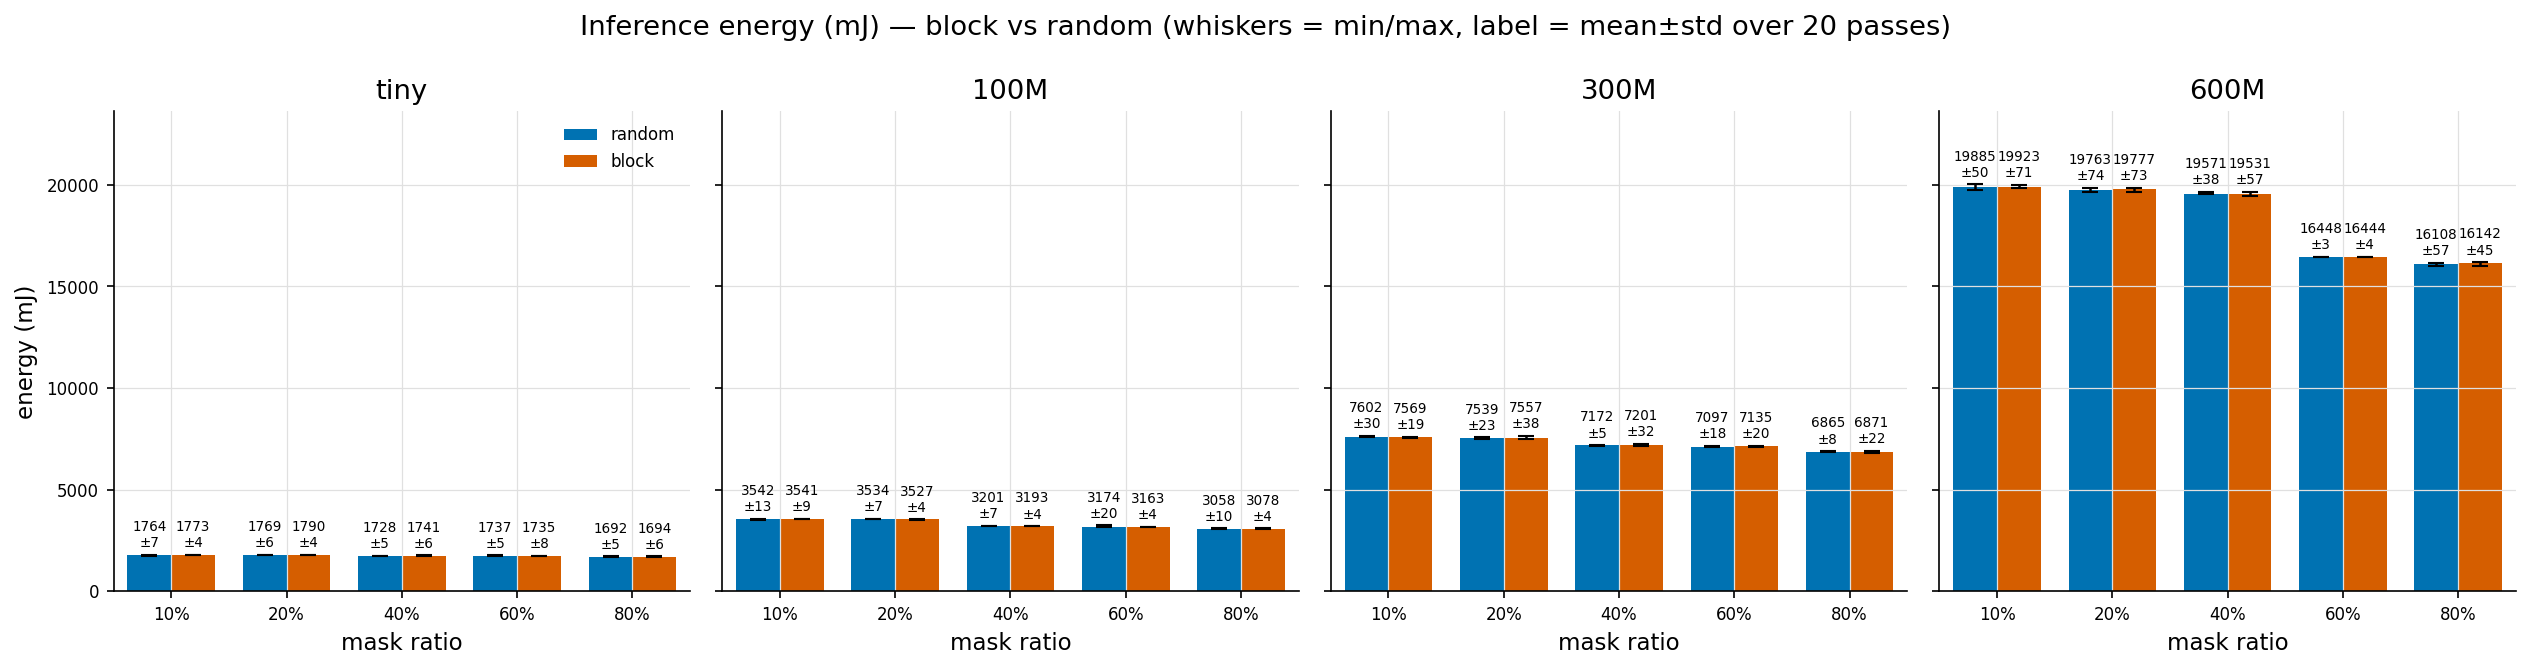
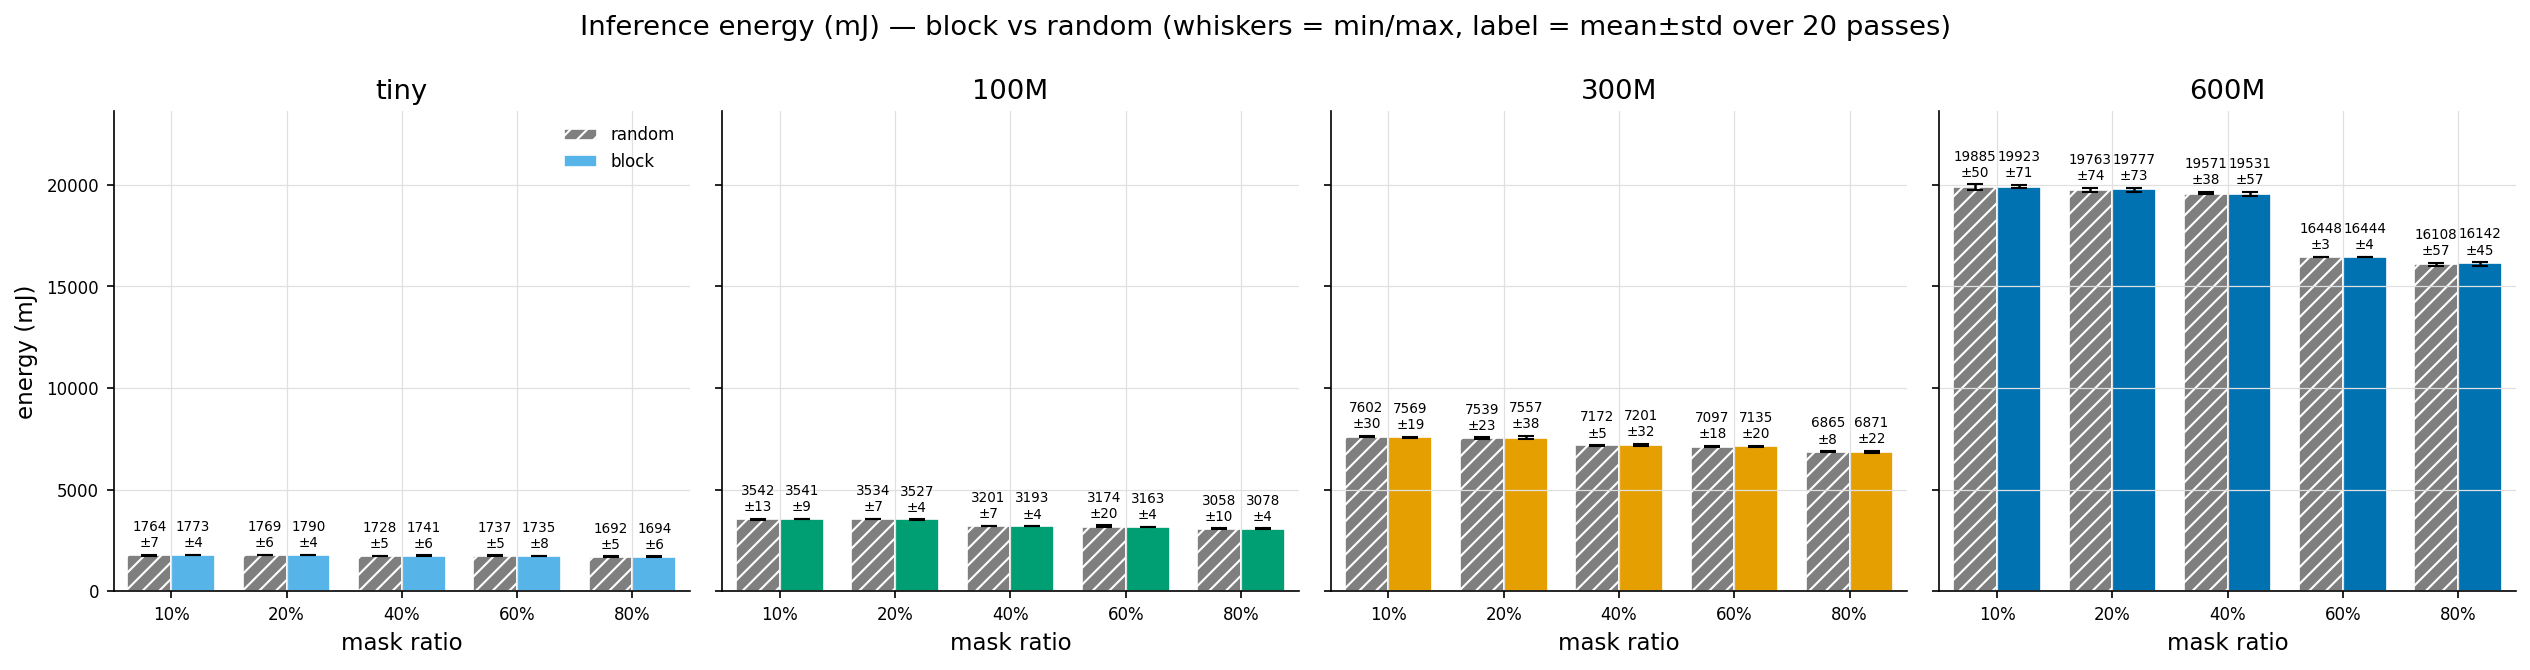
Use backbone accent color + neutral gray/hatch instead of blue/vermillion
Replaces the bright complementary color pairing with each backbone's own
accent color for block, neutral gray + hatch pattern for random.

Changed region(s): [[0.0312, 0.2687, 0.9992, 0.8955], [0.2186, 0.1791, 0.2498, 0.2687]]

diff --git a/multi_tile_generalization/block_masking_study/scripts/plot_inference_energy.py b/multi_tile_generalization/block_masking_study/scripts/plot_inference_energy.py
@@ -1,18 +1,30 @@
-"""One clean figure per metric: block vs random, min/max whiskers, mean±std labels."""
+"""
+plot_inference_energy.py
+-------------------------
+One clean figure per metric: block vs random, min/max whiskers, mean+-std labels.
+Reads outputs/inference_energy.csv -> outputs/figures/fig_inference_{energy,power,enc}.png
+
+Colors: block uses each backbone's own accent color (BACKBONE_COLORS, same
+identity used throughout the project); random uses a neutral gray with a
+hatch pattern. Replaces the prior fixed blue (#0072B2) vs vermillion (#D55E00)
+pairing -- a bright, high-contrast complementary clash, avoided per project
+convention (primary accent + neutral gray for two-series comparisons).
+"""
 import os, sys
+from pathlib import Path
 import numpy as np, pandas as pd
 import matplotlib.pyplot as plt
-
 sys.path.insert(0, os.path.expanduser("~/Prithvi"))
-try:
-    from plot_style import apply_style
-    apply_style()
-except Exception:
-    pass
+from plot_style import apply_style, BACKBONE_COLORS
+apply_style()
 
-CSV = "multi_tile_generalization/block_masking_study/outputs/inference_energy.csv"
-OUTDIR = "multi_tile_generalization/block_masking_study/outputs/figures"
-os.makedirs(OUTDIR, exist_ok=True)
+SCRIPT_DIR = Path(__file__).resolve().parent
+OUT_ROOT = SCRIPT_DIR.parent / "outputs"
+CSV = OUT_ROOT / "inference_energy.csv"
+OUTDIR = OUT_ROOT / "figures"
+OUTDIR.mkdir(parents=True, exist_ok=True)
+
+NEUTRAL_GRAY = "#7F7F7F"
 
 df = pd.read_csv(CSV)
 backbones = ["tiny", "100M", "300M", "600M"]
@@ -26,13 +38,16 @@ for mkey, mlabel, fmt in metrics:
     fig, axes = plt.subplots(1, 4, figsize=(17, 4.5))
     ymax = df[f"{mkey}_max"].max() * 1.18
     for ax, b in zip(axes, backbones):
-        for mt, off, c in [("random", -w/2, "#0072B2"), ("block", +w/2, "#D55E00")]:
+        accent = BACKBONE_COLORS[b]
+        for mt, off, c, hatch in [("random", -w/2, NEUTRAL_GRAY, "///"),
+                                   ("block",  +w/2, accent,      None)]:
             sub = df[(df.backbone == b) & (df.mask_type == mt)].set_index("mask_ratio").loc[ratios]
             mean = sub[f"{mkey}_mean"].values
             std  = sub[f"{mkey}_std"].values
             lo = mean - sub[f"{mkey}_min"].values
             hi = sub[f"{mkey}_max"].values - mean
-            ax.bar(x + off, mean, w, label=mt, color=c,
+            ax.bar(x + off, mean, w, label=mt, color=c, hatch=hatch,
+                   edgecolor="white", linewidth=0.8,
                    yerr=[lo, hi], capsize=4, error_kw=dict(lw=1.2))
             for xi, m, s, h in zip(x + off, mean, std, sub[f"{mkey}_max"].values):
                 ax.text(xi, h + ymax*0.01, f"{fmt % m}\n±{fmt % s}",
@@ -44,5 +59,5 @@ for mkey, mlabel, fmt in metrics:
         else: ax.set_yticklabels([])
     fig.suptitle(f"Inference {mlabel} — block vs random (whiskers = min/max, label = mean±std over 20 passes)")
     fig.tight_layout()
-    out = f"{OUTDIR}/fig_inference_{mkey}.png"
+    out = OUTDIR / f"fig_inference_{mkey}.png"
     fig.savefig(out, dpi=150, bbox_inches="tight"); print("Wrote", out)
